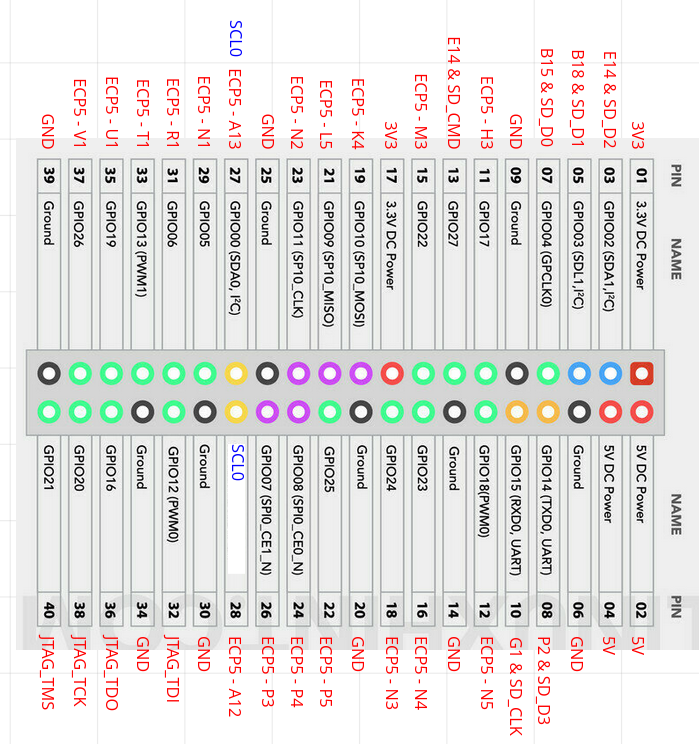
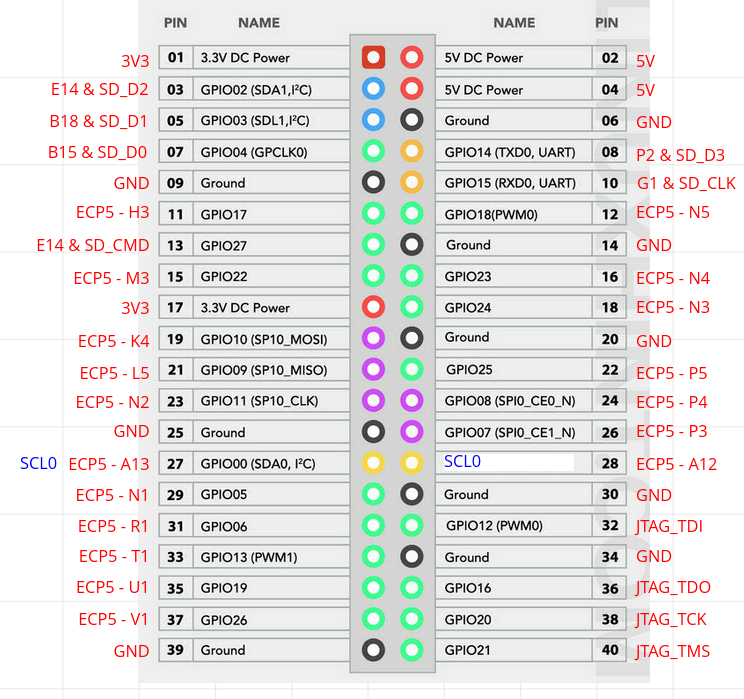
Adding more info

diff --git a/README.md b/README.md
@@ -22,6 +22,10 @@ Successor of [ULX2S](http://github.com/emard/ulx2s).
 
 ![GPIO](/pic/gpio.png)
 
+On this version SD_CARD is aslo connected to GPIO pins, so we can share it with ESP32 as on ULX3S.
+
+On this version FPGA JTAG pins are connected to some GPIO pins so you will not be able to use them as GPIOs, but you can acces JTAG over GPIO.
+
 If Waveshare IO board is used it can be powered only from USB-C.
 
 If you are using Raspberry IO board then you will need 12V DC input as micro USB does not have 5V connected.
